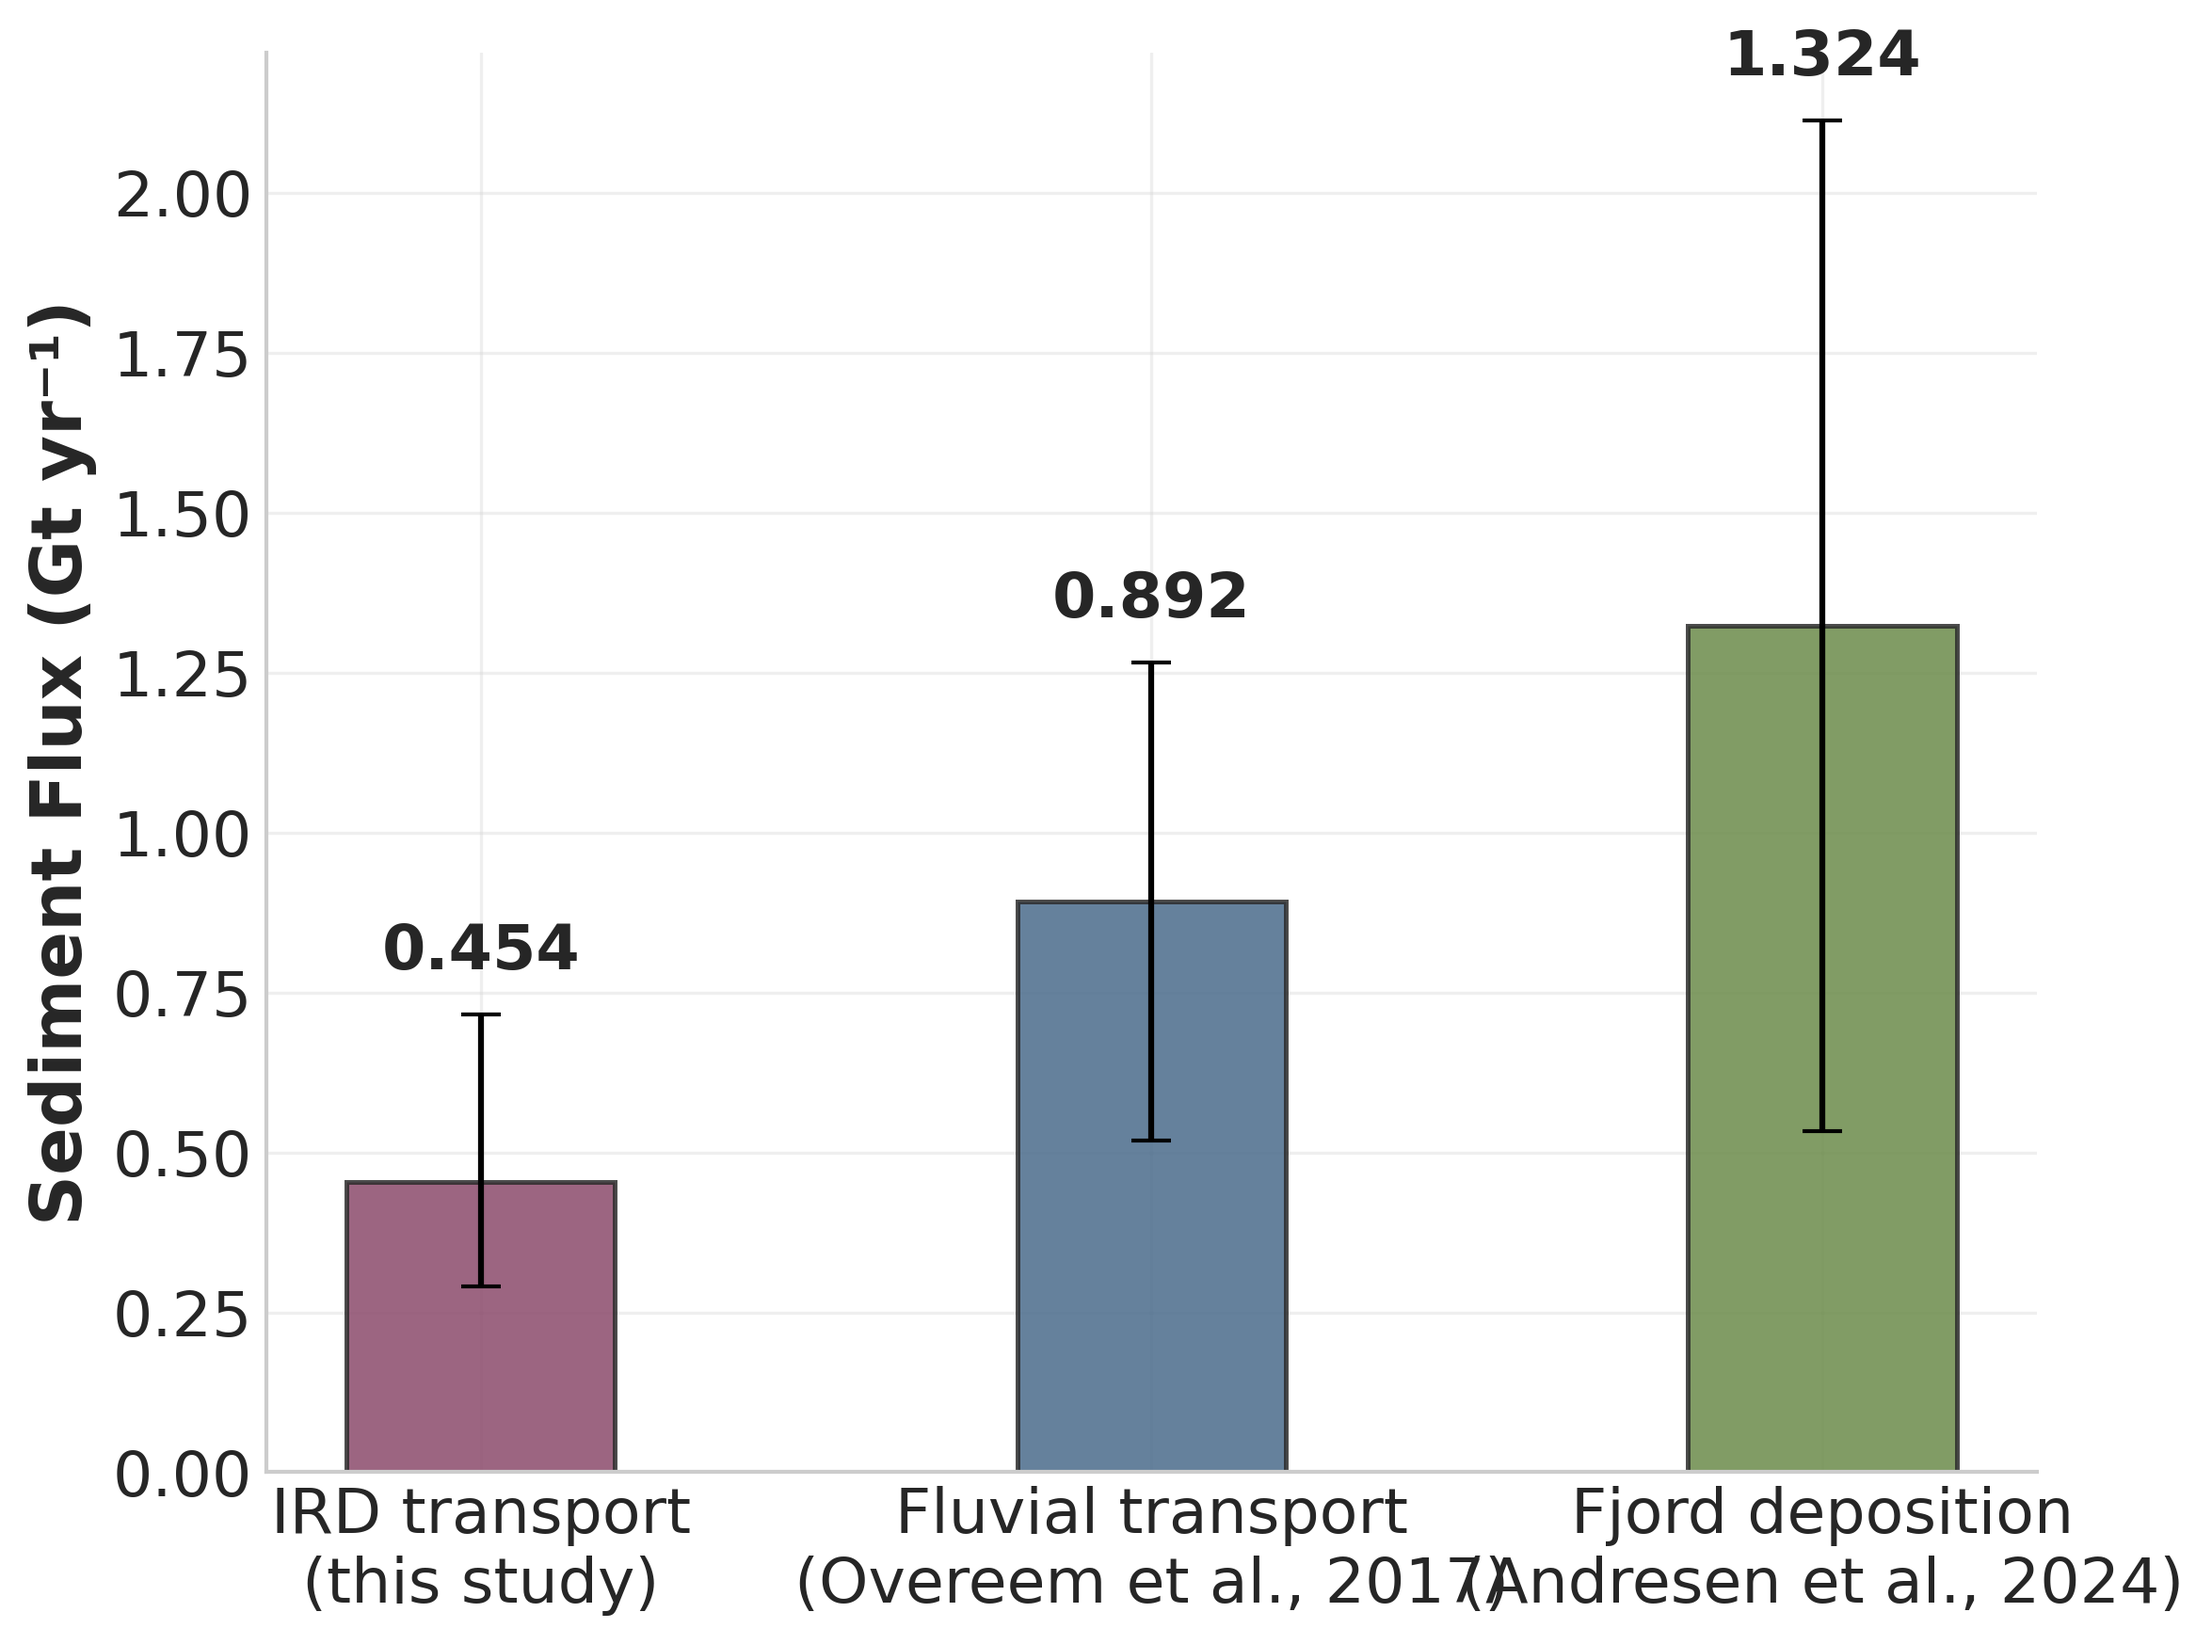
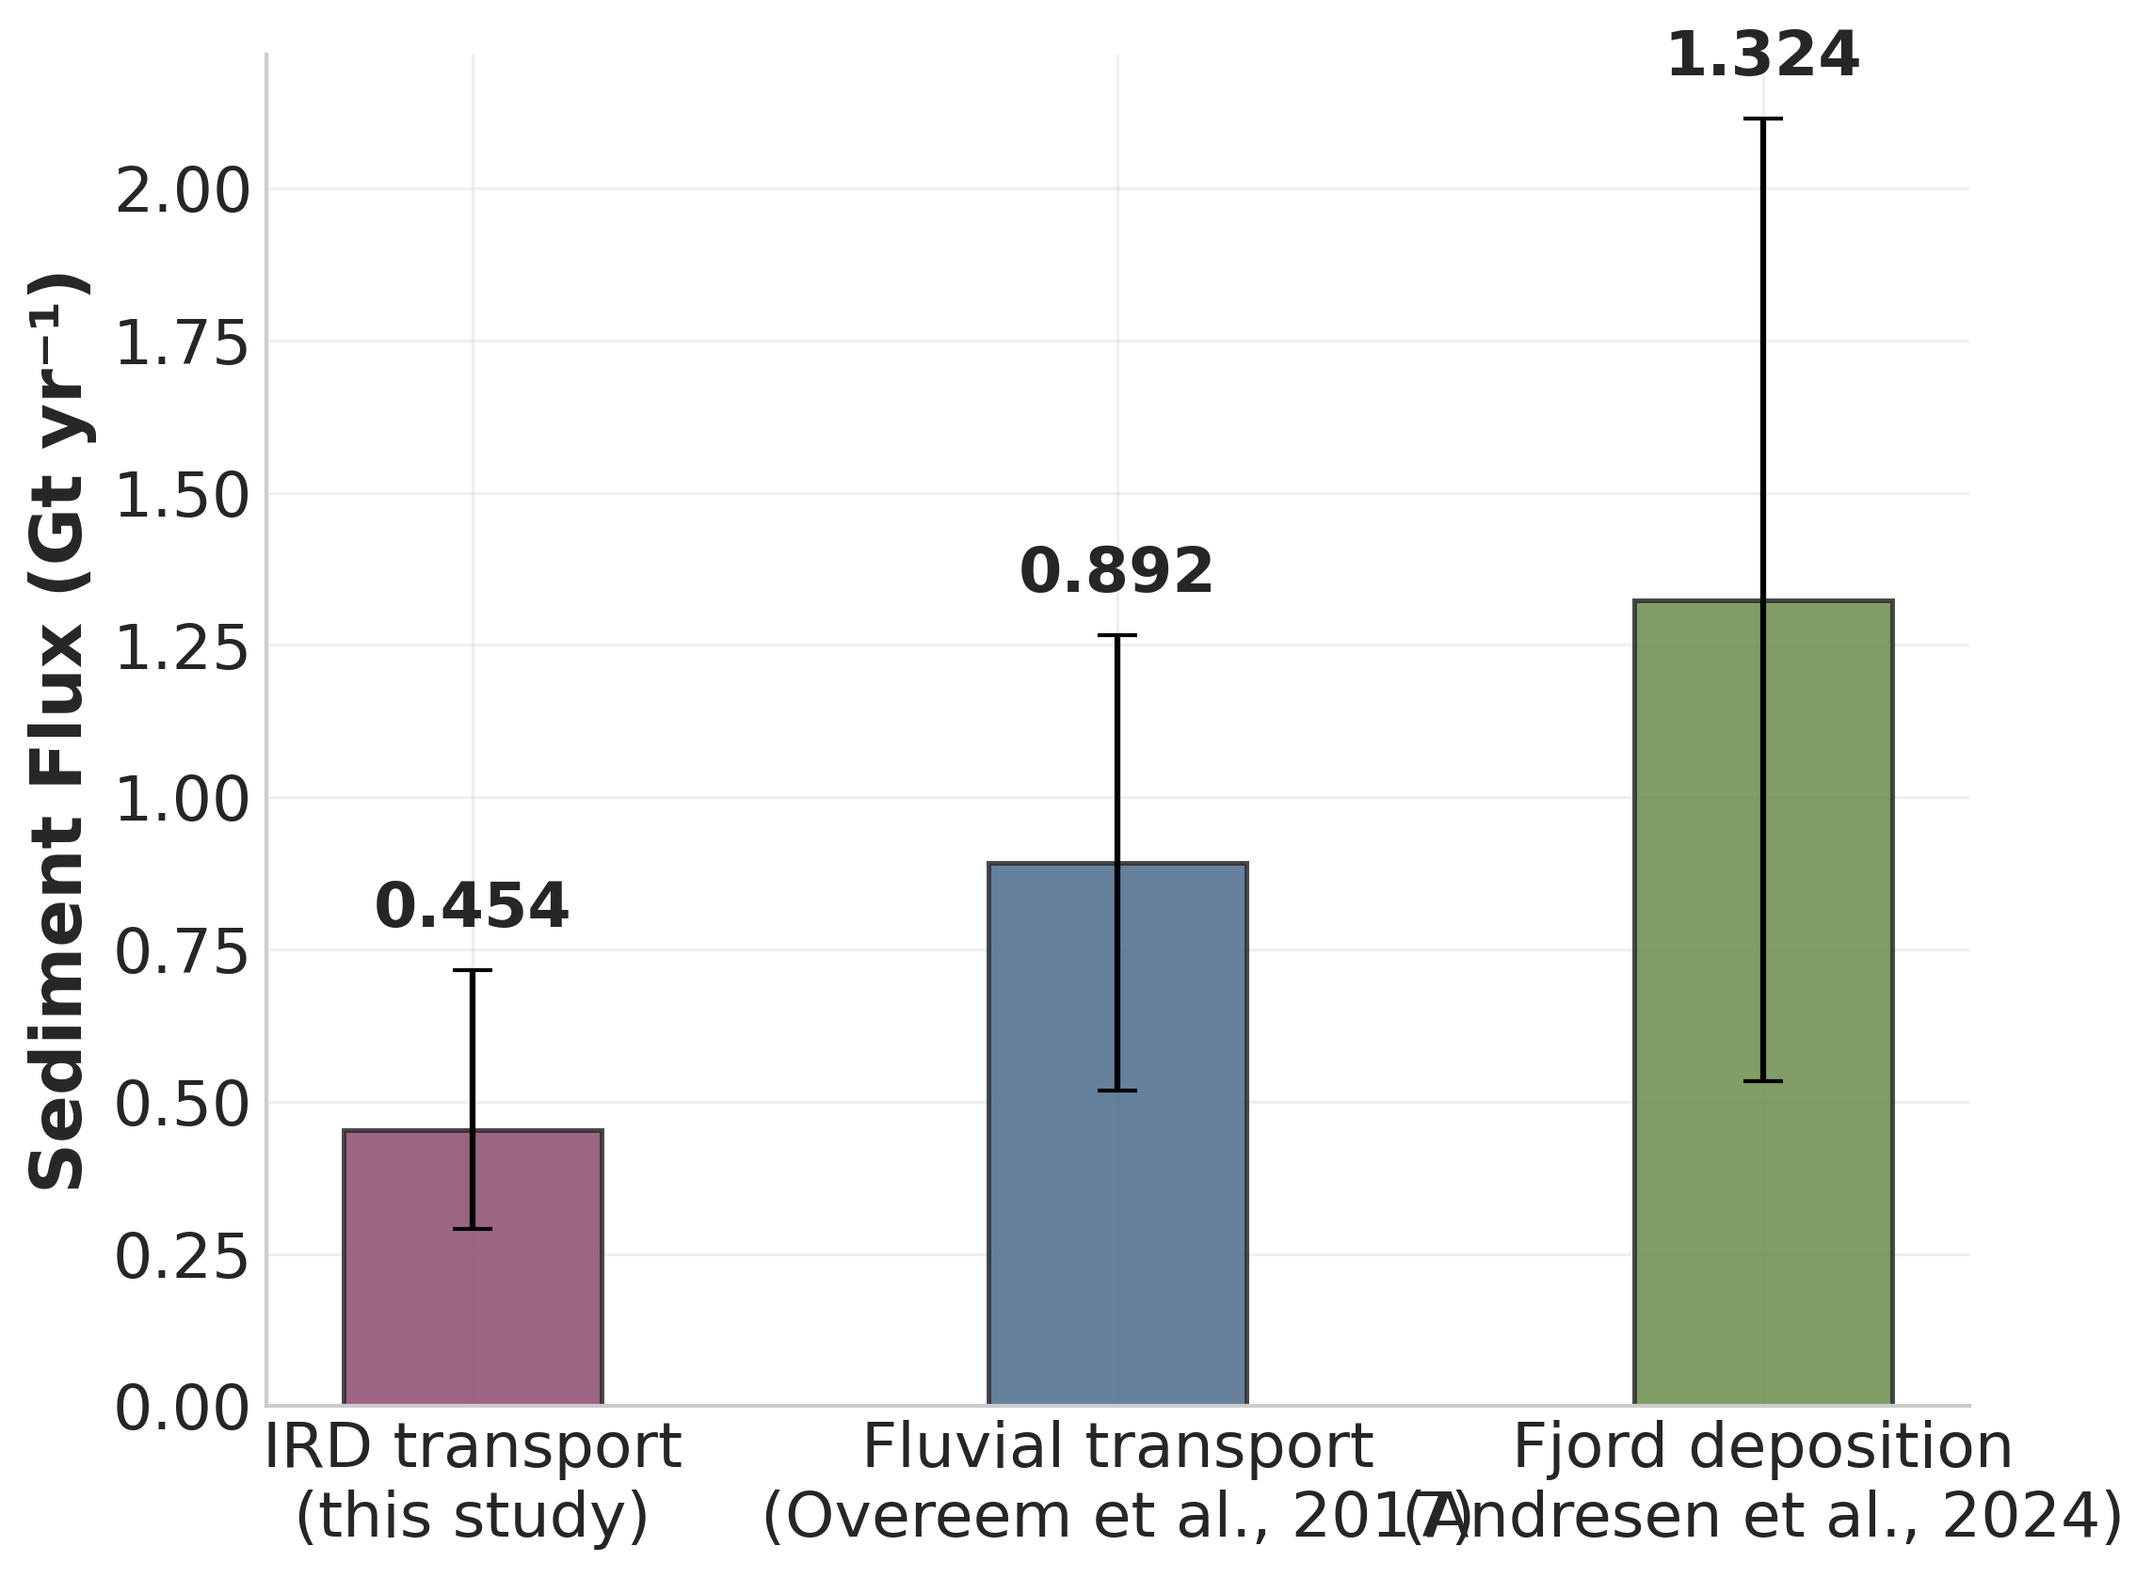
Add all results before cleaning repo

diff --git a/output/plot_uncertainty.py b/output/plot_uncertainty.py
@@ -18,13 +18,13 @@ matplotlib.rcParams['font.family'] = 'DejaVu Sans'
 plt.style.use('seaborn-v0_8-whitegrid')
 sns.set_palette("husl")
 plt.rcParams.update({
-    'font.size': 12,
-    'axes.titlesize': 14,
-    'axes.labelsize': 12,
-    'xtick.labelsize': 10,
-    'ytick.labelsize': 10,
-    'legend.fontsize': 10,
-    'figure.titlesize': 16,
+    'font.size': 20,
+    'axes.titlesize': 22,
+    'axes.labelsize': 20,
+    'xtick.labelsize': 18,
+    'ytick.labelsize': 18,
+    'legend.fontsize': 18,
+    'figure.titlesize': 24,
     'font.family': 'DejaVu Sans',
     'axes.spines.top': False,
     'axes.spines.right': False,
@@ -145,20 +145,20 @@ y_lower = y_fit - critical_value * se_fit
 y_upper = y_fit + critical_value * se_fit
 
 # Plot confidence band
-ax.fill_between(x_range, y_lower, y_upper, alpha=0.2, color='red', label='95% Confidence Interval')
+ax.fill_between(x_range, y_lower, y_upper, alpha=0.2, color='blue', label='95% Confidence Interval')
 
 # Plot best fit line
-ax.plot(x_range, y_fit, 'r-', linewidth=3, label=f'Best Fit: SY = {10**fit.intercept:.4f} IY^{fit.slope:.2f}')
+ax.plot(x_range, y_fit, 'b-', linewidth=3, label=f'Best Fit: SY = {10**fit.intercept:.4f} IY^{fit.slope:.2f}')
 
 # Add statistics text box
 stats_text = f'RMSE = {rmse:.3f} kg m⁻² a⁻¹\nR² = {R2:.3f}\np < 0.001'
 ax.text(0.02, 0.98, stats_text, transform=ax.transAxes, 
         verticalalignment='top', bbox=dict(boxstyle='round', facecolor='white', alpha=0.8),
-        fontsize=10, fontweight='bold')
+        fontsize=18, fontweight='bold')
 
 # Professional axis labels with units
-ax.set_xlabel('log₁₀(Ice Yield) [kg m$^{-2}$ yr$^{-1}$]', fontsize=12, fontweight='bold')
-ax.set_ylabel('log₁₀(Sediment Yield) [kg m$^{-2}$ yr$^{-1}$]', fontsize=12, fontweight='bold')
+ax.set_xlabel('log₁₀(Ice Yield) [kg m$^{-2}$ yr$^{-1}$]', fontsize=20, fontweight='bold')
+ax.set_ylabel('log₁₀(Sediment Yield) [kg m$^{-2}$ yr$^{-1}$]', fontsize=20, fontweight='bold')
 
 # Improve legend - position it to avoid conflict with statistics box
 ax.legend(loc='lower right', frameon=True, fancybox=True, shadow=True)
